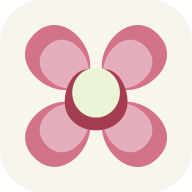
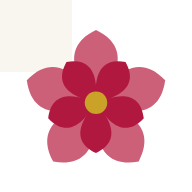
Redraw the flower in Clara's own colours
The mark used #D37389, #E5ACBB, #A43D52 and a pale green #EBF4D7, none of
which appear anywhere in :root. Against the app's cream, deep crimson and
Cormorant Garamond it read as a different product, and softer and cuter
than one that plots hormone curves and cites four books.

It is still a flower, now drawn from the palette it sits in: crimson
#B01840 and rose #CC6079 with a gold heart. Five petals rather than four,
which reads as a bloom instead of an X. Depth comes from two offset rings
of petals, replacing inner ellipses that followed no petal silhouette and
looked like stray highlights.

The old centre sat up and left of its own ring, which read as a drop
shadow that had slipped. The new bloom was off too, in its own way: one
petal points north and two splay south, so the ink sat 18px above the
canvas centre. CY carries the correction.

logo-small.svg earns the name now. It used to differ from logo.svg only
in corner radius; it is the same flower reduced to one ring of petals and
drawn larger in the frame, so a 16px favicon fills its space rather than
smudging.

The icons are full-bleed rather than pre-rounded, since the manifest
declares them maskable and the platform crops them itself. The manifest's
background and theme colours were still #F8F4EE, the old plate; they
match --bg now. VERSION goes to clara-v6 because icons are cache-first,
and without the bump an installed copy would keep the old flower forever.

diff --git a/sw.js b/sw.js
@@ -8,7 +8,7 @@
 //     online load rather than being pinned to whatever was cached first
 //   - icons, the manifest and webfonts are cache-first, since they change
 //     rarely and this is what makes a cold offline launch fast
-const VERSION = 'clara-v5';
+const VERSION = 'clara-v6';
 
 const CORE = [
   './',
